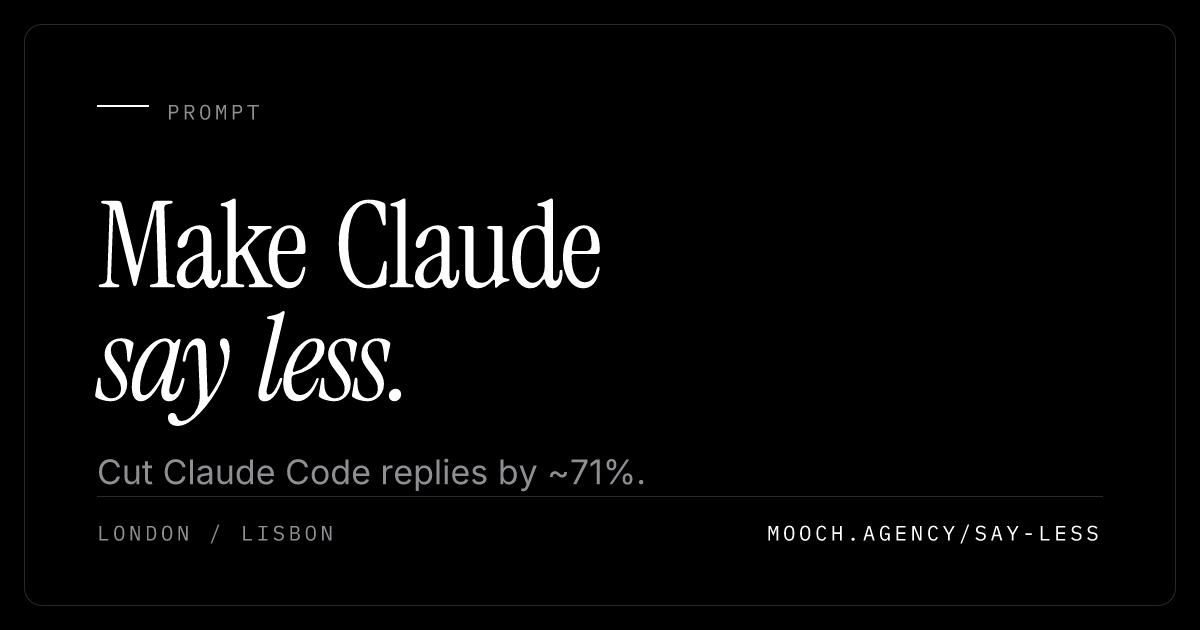
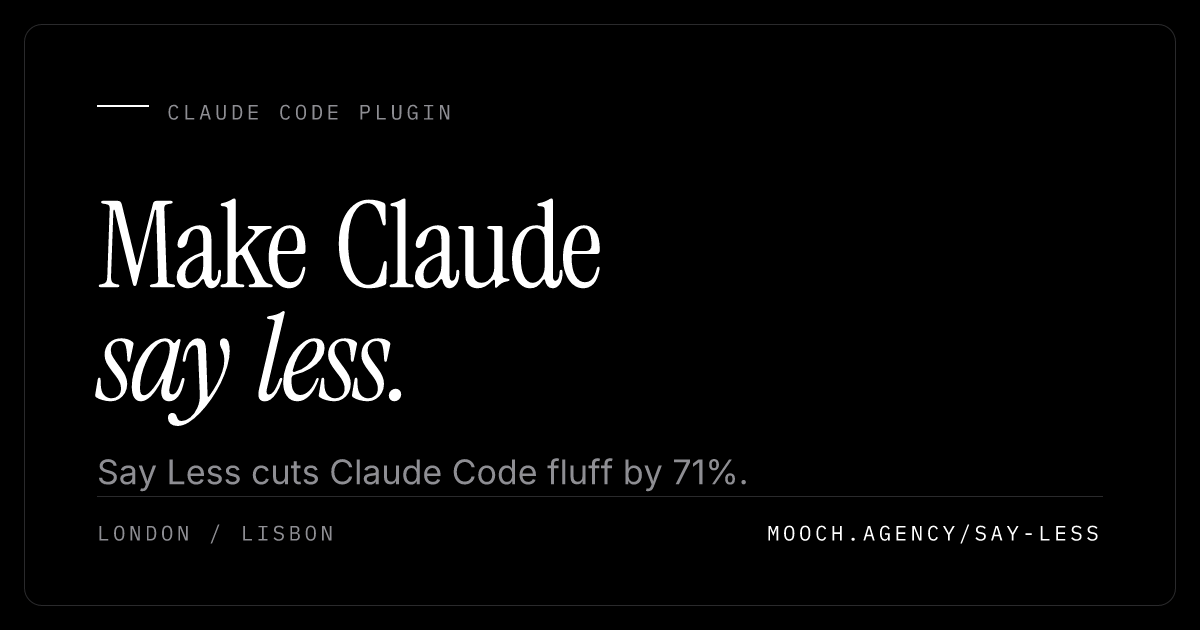
Give every page its own share card, and get check-site green (#36)
* Give every page its own share card, not the generic one

Only /say-less and /paulgraham pointed at their own OG image. Everything
else fell back to og-image.png, so a shared case-study or prompt link
showed the brand card with a mismatched title. The cards existed in
og-explorations/ but were never wired up.

- Generate cards for the three pages that had none: /deslop,
  /soundlikeme, /ready
- Ship all 13 as og-<slug>.png and point each page's og:image and
  twitter:image at its own, with width, height and alt
- Refresh og-image.png from the current home card, now the brand
  fallback only
- Templates and CLAUDE.md carry the per-page card step

Claude-Session: https://claude.ai/code/session_01Q41ufbfDNm2iJ9b94AGpeU

* Get check-site green: rescope the page set, tokenise /say-less

The five standing failures were two stale scoping calls plus thin copy.

- /say-less is public and sitemapped now, so it is a shipped page, not an
  exclusion. /og-explorations takes its place on the list: noindex share-card
  review page, same as the portfolio labs
- Blank CSS comments before scanning for colour literals. A contrast table in
  a comment documents a colour, it doesn't ship one
- Promote the /say-less literals to tokens: --claude and its ring pair, --scrim,
  --shadow-modal, --focus-ring-dark
- Lengthen the /say-less and /deslop meta descriptions, drop an em dash

Claude-Session: https://claude.ai/code/session_01Q41ufbfDNm2iJ9b94AGpeU

---------

diff --git a/say-less.html b/say-less.html
@@ -7,18 +7,18 @@
 <link rel="icon" type="image/svg+xml" href="/favicon.svg">
 <link rel="icon" type="image/x-icon" href="/favicon.ico">
 <link rel="apple-touch-icon" sizes="180x180" href="/apple-touch-icon-180.png">
-<meta name="description" content="Cut Claude Code fluff by ~71%."><link rel="canonical" href="https://mooch.agency/say-less">
+<meta name="description" content="A Claude Code plugin that cuts fluff by 71%. Try it live on the page, then install it in one line."><link rel="canonical" href="https://mooch.agency/say-less">
 <meta property="og:type" content="website">
 <meta property="og:url" content="https://mooch.agency/say-less">
 <meta property="og:title" content="Say Less: try it live, cuts fluff 71% | Mooch">
-<meta property="og:description" content="Cut Claude Code fluff by ~71%.">
+<meta property="og:description" content="A Claude Code plugin that cuts fluff by 71%. Try it live on the page, then install it in one line.">
 <meta property="og:image" content="https://mooch.agency/og-say-less.png">
 <meta property="og:image:width" content="1200">
 <meta property="og:image:height" content="630">
 <meta property="og:image:alt" content="Make Claude say less. Cut Claude Code fluff by ~71%.">
 <meta name="twitter:card" content="summary_large_image">
 <meta name="twitter:title" content="Say Less: try it live, cuts fluff 71% | Mooch">
-<meta name="twitter:description" content="Cut Claude Code fluff by ~71%.">
+<meta name="twitter:description" content="A Claude Code plugin that cuts fluff by 71%. Try it live on the page, then install it in one line.">
 <meta name="twitter:image" content="https://mooch.agency/og-say-less.png">
 <meta name="twitter:image:alt" content="Make Claude say less. Cut Claude Code fluff by ~71%.">
 <link rel="preconnect" href="https://fonts.googleapis.com">
@@ -251,7 +251,7 @@
   }
   .field:focus-within {
     border-color: var(--paper);
-    box-shadow: 0 0 0 3px rgba(255,255,255,0.08);
+    box-shadow: var(--focus-ring-dark);
   }
   /* Wraps the accent bar and textarea only (not the go button, which is
      already self-rounded). overflow: hidden here is scoped to just this
@@ -342,7 +342,7 @@
     margin-top: 10px; min-height: 14px; font-variant-numeric: tabular-nums;
   }
   .state-line.fail { color: var(--error); }
-  .state-line.running { color: #d97757; }
+  .state-line.running { color: var(--claude); }
   @media (prefers-reduced-motion: no-preference) {
     .state-line { transition: color var(--t-deliver) var(--ease-deliver); }
   }
@@ -523,12 +523,12 @@
     padding: var(--pad-x);
   }
   .intercept.open { display: flex; }
-  .intercept-scrim { position: absolute; inset: 0; background: rgba(0,0,0,0.75); }
+  .intercept-scrim { position: absolute; inset: 0; background: var(--scrim); }
   .intercept-card {
     position: relative; width: min(440px, 100%);
     background: var(--surface); border: 1px solid var(--hairline-focus);
     border-radius: 16px; padding: clamp(22px, 3vw, 30px);
-    box-shadow: 0 24px 60px rgba(0,0,0,0.6);
+    box-shadow: var(--shadow-modal);
   }
   @media (prefers-reduced-motion: no-preference) {
     .intercept.open .intercept-card { animation: interceptIn 0.4s var(--ease-decide); }
@@ -586,12 +586,12 @@
      second install surface. */
   .install-hi { animation: installHi 2.4s var(--ease-decide); }
   @keyframes installHi {
-    0%   { box-shadow: inset 0 0 0 1px rgba(217,119,87,0.9); }
-    70%  { box-shadow: inset 0 0 0 1px rgba(217,119,87,0.9); }
-    100% { box-shadow: inset 0 0 0 1px rgba(217,119,87,0); }
+    0%   { box-shadow: inset 0 0 0 1px var(--claude-ring); }
+    70%  { box-shadow: inset 0 0 0 1px var(--claude-ring); }
+    100% { box-shadow: inset 0 0 0 1px var(--claude-ring-out); }
   }
   @media (prefers-reduced-motion: reduce) {
-    .install-hi { animation: none; box-shadow: inset 0 0 0 1px rgba(217,119,87,0.9); }
+    .install-hi { animation: none; box-shadow: inset 0 0 0 1px var(--claude-ring); }
   }
 
   /* ── Colophon ──────────────────────────────────────────────────────────
@@ -755,7 +755,7 @@
         <pre id="install-commands">/plugin marketplace add mooch-agency/say-less
 /plugin install say-less@say-less</pre>
       </div>
-      <p>On the desktop app or the web, <code>/plugin</code> isn't available as a typed command &mdash; use the prompt above, which handles every surface, or read the <a href="https://github.com/mooch-agency/say-less/blob/master/INSTALL.md">per-surface install guide</a>.</p>
+      <p>On the desktop app or the web, <code>/plugin</code> isn't available as a typed command. Use the prompt above, which handles every surface, or read the <a href="https://github.com/mooch-agency/say-less/blob/master/INSTALL.md">per-surface install guide</a>.</p>
       <p class="feedback-line">Something off, or working well? <a id="feedbackLink" href="mailto:hey@mooch.agency?subject=Say%20Less%20beta%20feedback">hey@mooch.agency</a>.</p>
       </div>
     </div>

diff --git a/og-explorations.html b/og-explorations.html
@@ -116,12 +116,24 @@
   <div class="group-lead">Category word as the eyebrow (Prompt, Plaything), full path as the domain, London / Lisbon bottom-left like every card. Say Less runs black to match its landing page.</div>
   <div class="grid">
     <figure>
-      <img src="og-explorations/say-less.png" alt="Make Claude say less. Cut Claude Code replies by ~71%." width="1200" height="630" loading="lazy" decoding="async">
+      <img src="og-explorations/say-less.png" alt="Make Claude say less. Say Less cuts Claude Code fluff by 71%." width="1200" height="630" loading="lazy" decoding="async">
       <figcaption><a href="say-less.html">say-less.html</a> <span class="note">Shipped</span></figcaption>
     </figure>
     <figure>
       <img src="og-explorations/paulgraham.png" alt="Write like Paul Graham. Write articles as clearly as Paul Graham." width="1200" height="630" loading="lazy" decoding="async">
       <figcaption><a href="paulgraham.html">paulgraham.html</a> <span class="note">Replaces the hand-made card</span></figcaption>
+    </figure>
+    <figure>
+      <img src="og-explorations/deslop.png" alt="/deslop. Remove the red flags of AI writing." width="1200" height="630" loading="lazy" decoding="async">
+      <figcaption><a href="prompts/deslop.html">prompts/deslop.html</a> <span class="note">Prompt tint</span></figcaption>
+    </figure>
+    <figure>
+      <img src="og-explorations/soundlikeme.png" alt="/soundlikeme. Make AI write in your voice." width="1200" height="630" loading="lazy" decoding="async">
+      <figcaption><a href="prompts/soundlikeme.html">prompts/soundlikeme.html</a> <span class="note">Prompt tint</span></figcaption>
+    </figure>
+    <figure>
+      <img src="og-explorations/ready.png" alt="Ready to automate, or just keen? 6 questions. A readiness score and 3 next steps." width="1200" height="630" loading="lazy" decoding="async">
+      <figcaption><a href="ready.html">ready.html</a> <span class="note">Self-audit</span></figcaption>
     </figure>
   </div>
 </div>
@@ -129,7 +141,7 @@
 <div class="group">
   <div class="group-num"><strong>03</strong> Selected work <span class="rule"></span></div>
   <div class="group-title">Case <em>studies</em>.</div>
-  <div class="group-lead">Client name as the display, the work in one line, the discipline bottom-left. Footers stop at <code>mooch.agency</code>: the deep path crowded the rule and nobody types a case-study URL. All seven currently share the generic card.</div>
+  <div class="group-lead">Client name as the display, the work in one line, the discipline bottom-left. Footers stop at <code>mooch.agency</code>: the deep path crowded the rule and nobody types a case-study URL. All seven now ship their own card.</div>
   <div class="grid">
     <figure>
       <img src="og-explorations/gov-uk.png" alt="GOV.UK. Accessibility audits and service design for services millions rely on." width="1200" height="630" loading="lazy" decoding="async">
@@ -169,7 +181,7 @@
   <div class="recipe">npm run hero -- \
   --eyebrow "Prompt" \
   --title "Make Claude *say less.*" \
-  --subtitle "Cut Claude Code replies by ~71%." \
+  --subtitle "Say Less cuts Claude Code fluff by 71%." \
   --format og --frame --dark --no-watermark \
   --meta "London / Lisbon" \
   --domain "mooch.agency/say-less" \

diff --git a/prompts/deslop.html b/prompts/deslop.html
@@ -7,17 +7,21 @@
 <link rel="icon" type="image/svg+xml" href="/favicon.svg">
 <link rel="icon" type="image/x-icon" href="/favicon.ico">
 <link rel="apple-touch-icon" sizes="180x180" href="/apple-touch-icon-180.png">
-<meta name="description" content="A prompt to remove the red flags of AI writing. Free from Mooch.">
+<meta name="description" content="A free prompt that strips the red flags of AI writing: hedges, filler and throat clearing. Works with Claude, ChatGPT and Gemini.">
 <meta property="og:type" content="article">
 <meta property="og:url" content="https://mooch.agency/prompts/deslop">
 <link rel="canonical" href="https://mooch.agency/prompts/deslop">
 <meta property="og:title" content="/deslop - Prompt - Mooch">
-<meta property="og:description" content="A prompt to remove the red flags of AI writing. Free from Mooch.">
-<meta property="og:image" content="https://mooch.agency/og-image.png">
+<meta property="og:description" content="A free prompt that strips the red flags of AI writing: hedges, filler and throat clearing. Works with Claude, ChatGPT and Gemini.">
+<meta property="og:image" content="https://mooch.agency/og-deslop.png">
+<meta property="og:image:width" content="1200">
+<meta property="og:image:height" content="630">
+<meta property="og:image:alt" content="/deslop. Remove the red flags of AI writing.">
 <meta name="twitter:card" content="summary_large_image">
 <meta name="twitter:title" content="/deslop - Prompt - Mooch">
-<meta name="twitter:description" content="A prompt to remove the red flags of AI writing. Free from Mooch.">
-<meta name="twitter:image" content="https://mooch.agency/og-image.png">
+<meta name="twitter:description" content="A free prompt that strips the red flags of AI writing: hedges, filler and throat clearing. Works with Claude, ChatGPT and Gemini.">
+<meta name="twitter:image" content="https://mooch.agency/og-deslop.png">
+<meta name="twitter:image:alt" content="/deslop. Remove the red flags of AI writing.">
 <link rel="preconnect" href="https://fonts.googleapis.com">
 <link rel="preconnect" href="https://fonts.gstatic.com" crossorigin>
 <link href="https://fonts.googleapis.com/css2?family=Instrument+Serif:ital@0;1&display=swap" rel="stylesheet">

diff --git a/lisbon-restaurant-group.html b/lisbon-restaurant-group.html
@@ -13,11 +13,15 @@
 <link rel="canonical" href="https://mooch.agency/lisbon-restaurant-group">
 <meta property="og:title" content="Lisbon Restaurant Group: AI review automation | Mooch">
 <meta property="og:description" content="How Mooch built AI-powered review automation for a Lisbon restaurant group, turning Google reviews into actionable insights and draft replies.">
-<meta property="og:image" content="https://mooch.agency/og-image.png">
+<meta property="og:image" content="https://mooch.agency/og-lisbon-restaurant-group.png">
+<meta property="og:image:width" content="1200">
+<meta property="og:image:height" content="630">
+<meta property="og:image:alt" content="Lisbon Restaurant Group. AI review automation: Google reviews turned into drafted replies.">
 <meta name="twitter:card" content="summary_large_image">
 <meta name="twitter:title" content="Lisbon Restaurant Group: AI review automation | Mooch">
 <meta name="twitter:description" content="How Mooch built AI-powered review automation for a Lisbon restaurant group, turning Google reviews into actionable insights and draft replies.">
-<meta name="twitter:image" content="https://mooch.agency/og-image.png">
+<meta name="twitter:image" content="https://mooch.agency/og-lisbon-restaurant-group.png">
+<meta name="twitter:image:alt" content="Lisbon Restaurant Group. AI review automation: Google reviews turned into drafted replies.">
 <link rel="preconnect" href="https://fonts.googleapis.com">
 <link rel="preconnect" href="https://fonts.gstatic.com" crossorigin>
 <link href="https://fonts.googleapis.com/css2?family=Instrument+Serif:ital@0;1&display=swap" rel="stylesheet">

diff --git a/ethereum.html b/ethereum.html
@@ -13,11 +13,15 @@
 <link rel="canonical" href="https://mooch.agency/ethereum">
 <meta property="og:title" content="Ethereum Foundation: Rewriting ethereum.org in plain English | Mooch">
 <meta property="og:description" content="How Mooch rewrote the core informational layer of ethereum.org for the Ethereum Foundation: plain English without losing technical accuracy.">
-<meta property="og:image" content="https://mooch.agency/og-image.png">
+<meta property="og:image" content="https://mooch.agency/og-ethereum.png">
+<meta property="og:image:width" content="1200">
+<meta property="og:image:height" content="630">
+<meta property="og:image:alt" content="Ethereum Foundation. Rewriting ethereum.org in plain English, without losing technical accuracy.">
 <meta name="twitter:card" content="summary_large_image">
 <meta name="twitter:title" content="Ethereum Foundation: Rewriting ethereum.org in plain English | Mooch">
 <meta name="twitter:description" content="How Mooch rewrote the core informational layer of ethereum.org for the Ethereum Foundation: plain English without losing technical accuracy.">
-<meta name="twitter:image" content="https://mooch.agency/og-image.png">
+<meta name="twitter:image" content="https://mooch.agency/og-ethereum.png">
+<meta name="twitter:image:alt" content="Ethereum Foundation. Rewriting ethereum.org in plain English, without losing technical accuracy.">
 <link rel="preconnect" href="https://fonts.googleapis.com">
 <link rel="preconnect" href="https://fonts.gstatic.com" crossorigin>
 <link href="https://fonts.googleapis.com/css2?family=Instrument+Serif:ital@0;1&display=swap" rel="stylesheet">

diff --git a/british-airways.html b/british-airways.html
@@ -13,11 +13,15 @@
 <link rel="canonical" href="https://mooch.agency/british-airways">
 <meta property="og:title" content="British Airways: UX research for digital products | Mooch">
 <meta property="og:description" content="How Mooch ran user research across British Airways' digital products, identifying friction points and delivering actionable design recommendations.">
-<meta property="og:image" content="https://mooch.agency/og-image.png">
+<meta property="og:image" content="https://mooch.agency/og-british-airways.png">
+<meta property="og:image:width" content="1200">
+<meta property="og:image:height" content="630">
+<meta property="og:image:alt" content="British Airways. UX research across BA's digital products, from friction points to fixes.">
 <meta name="twitter:card" content="summary_large_image">
 <meta name="twitter:title" content="British Airways: UX research for digital products | Mooch">
 <meta name="twitter:description" content="How Mooch ran user research across British Airways' digital products, identifying friction points and delivering actionable design recommendations.">
-<meta name="twitter:image" content="https://mooch.agency/og-image.png">
+<meta name="twitter:image" content="https://mooch.agency/og-british-airways.png">
+<meta name="twitter:image:alt" content="British Airways. UX research across BA's digital products, from friction points to fixes.">
 <link rel="preconnect" href="https://fonts.googleapis.com">
 <link rel="preconnect" href="https://fonts.gstatic.com" crossorigin>
 <link href="https://fonts.googleapis.com/css2?family=Instrument+Serif:ital@0;1&display=swap" rel="stylesheet">

diff --git a/big-debate-club.html b/big-debate-club.html
@@ -13,11 +13,15 @@
 <link rel="canonical" href="https://mooch.agency/big-debate-club">
 <meta property="og:title" content="Big Debate Club: Brand and product for youth debate | Mooch">
 <meta property="og:description" content="How Mooch helped Big Debate Club build brand, product, and growth strategy for a debate platform connecting young people across the UK.">
-<meta property="og:image" content="https://mooch.agency/og-image.png">
+<meta property="og:image" content="https://mooch.agency/og-big-debate-club.png">
+<meta property="og:image:width" content="1200">
+<meta property="og:image:height" content="630">
+<meta property="og:image:alt" content="Big Debate Club. Brand, product and growth strategy for a youth debate platform.">
 <meta name="twitter:card" content="summary_large_image">
 <meta name="twitter:title" content="Big Debate Club: Brand and product for youth debate | Mooch">
 <meta name="twitter:description" content="How Mooch helped Big Debate Club build brand, product, and growth strategy for a debate platform connecting young people across the UK.">
-<meta name="twitter:image" content="https://mooch.agency/og-image.png">
+<meta name="twitter:image" content="https://mooch.agency/og-big-debate-club.png">
+<meta name="twitter:image:alt" content="Big Debate Club. Brand, product and growth strategy for a youth debate platform.">
 <link rel="preconnect" href="https://fonts.googleapis.com">
 <link rel="preconnect" href="https://fonts.gstatic.com" crossorigin>
 <link href="https://fonts.googleapis.com/css2?family=Instrument+Serif:ital@0;1&display=swap" rel="stylesheet">

diff --git a/gov-uk.html b/gov-uk.html
@@ -13,11 +13,15 @@
 <link rel="canonical" href="https://mooch.agency/gov-uk">
 <meta property="og:title" content="GOV.UK: Accessibility audits and service design | Mooch">
 <meta property="og:description" content="How Mooch ran accessibility audits, user testing sessions, and service design workshops to improve GOV.UK digital services for millions of users.">
-<meta property="og:image" content="https://mooch.agency/og-image.png">
+<meta property="og:image" content="https://mooch.agency/og-gov-uk.png">
+<meta property="og:image:width" content="1200">
+<meta property="og:image:height" content="630">
+<meta property="og:image:alt" content="GOV.UK. Accessibility audits and service design for services millions rely on.">
 <meta name="twitter:card" content="summary_large_image">
 <meta name="twitter:title" content="GOV.UK: Accessibility audits and service design | Mooch">
 <meta name="twitter:description" content="How Mooch ran accessibility audits, user testing sessions, and service design workshops to improve GOV.UK digital services for millions of users.">
-<meta name="twitter:image" content="https://mooch.agency/og-image.png">
+<meta name="twitter:image" content="https://mooch.agency/og-gov-uk.png">
+<meta name="twitter:image:alt" content="GOV.UK. Accessibility audits and service design for services millions rely on.">
 <link rel="preconnect" href="https://fonts.googleapis.com">
 <link rel="preconnect" href="https://fonts.gstatic.com" crossorigin>
 <link href="https://fonts.googleapis.com/css2?family=Instrument+Serif:ital@0;1&display=swap" rel="stylesheet">

diff --git a/zksync.html b/zksync.html
@@ -13,11 +13,15 @@
 <link rel="canonical" href="https://mooch.agency/zksync">
 <meta property="og:title" content="zkSync: UX research for Ethereum Layer 2 scaling | Mooch">
 <meta property="og:description" content="How Mooch ran UX research for zkSync's Ethereum Layer 2 protocol, improving developer experience and bridging flows for the scaling network.">
-<meta property="og:image" content="https://mooch.agency/og-image.png">
+<meta property="og:image" content="https://mooch.agency/og-zksync.png">
+<meta property="og:image:width" content="1200">
+<meta property="og:image:height" content="630">
+<meta property="og:image:alt" content="zkSync. UX research for an Ethereum Layer 2: developer experience and bridging.">
 <meta name="twitter:card" content="summary_large_image">
 <meta name="twitter:title" content="zkSync: UX research for Ethereum Layer 2 scaling | Mooch">
 <meta name="twitter:description" content="How Mooch ran UX research for zkSync's Ethereum Layer 2 protocol, improving developer experience and bridging flows for the scaling network.">
-<meta name="twitter:image" content="https://mooch.agency/og-image.png">
+<meta name="twitter:image" content="https://mooch.agency/og-zksync.png">
+<meta name="twitter:image:alt" content="zkSync. UX research for an Ethereum Layer 2: developer experience and bridging.">
 <link rel="preconnect" href="https://fonts.googleapis.com">
 <link rel="preconnect" href="https://fonts.gstatic.com" crossorigin>
 <link href="https://fonts.googleapis.com/css2?family=Instrument+Serif:ital@0;1&display=swap" rel="stylesheet">

diff --git a/octant.html b/octant.html
@@ -13,11 +13,15 @@
 <link rel="canonical" href="https://mooch.agency/octant">
 <meta property="og:title" content="Octant: UX research for public goods funding | Mooch">
 <meta property="og:description" content="How Mooch ran UX research and shaped product strategy for Octant's public goods funding platform, making on-chain governance more accessible.">
-<meta property="og:image" content="https://mooch.agency/og-image.png">
+<meta property="og:image" content="https://mooch.agency/og-octant.png">
+<meta property="og:image:width" content="1200">
+<meta property="og:image:height" content="630">
+<meta property="og:image:alt" content="Octant. UX research and product strategy for public goods funding.">
 <meta name="twitter:card" content="summary_large_image">
 <meta name="twitter:title" content="Octant: UX research for public goods funding | Mooch">
 <meta name="twitter:description" content="How Mooch ran UX research and shaped product strategy for Octant's public goods funding platform, making on-chain governance more accessible.">
-<meta name="twitter:image" content="https://mooch.agency/og-image.png">
+<meta name="twitter:image" content="https://mooch.agency/og-octant.png">
+<meta name="twitter:image:alt" content="Octant. UX research and product strategy for public goods funding.">
 <link rel="preconnect" href="https://fonts.googleapis.com">
 <link rel="preconnect" href="https://fonts.gstatic.com" crossorigin>
 <link href="https://fonts.googleapis.com/css2?family=Instrument+Serif:ital@0;1&display=swap" rel="stylesheet">

diff --git a/index.html b/index.html
@@ -13,11 +13,15 @@
 <link rel="canonical" href="https://mooch.agency">
 <meta property="og:title" content="Mooch. UX &amp; AI Automation.">
 <meta property="og:description" content="A UX and AI automation agency in London and Lisbon. We design products people want to use, and AI automations they can't live without.">
-<meta property="og:image" content="https://mooch.agency/og.jpg">
+<meta property="og:image" content="https://mooch.agency/og-image.png">
+<meta property="og:image:width" content="1200">
+<meta property="og:image:height" content="630">
+<meta property="og:image:alt" content="Mooch. We design products people want to use, and AI automations they can't live without.">
 <meta name="twitter:card" content="summary_large_image">
 <meta name="twitter:title" content="Mooch. UX &amp; AI Automation.">
 <meta name="twitter:description" content="A UX and AI automation agency in London and Lisbon. We design products people want to use, and AI automations they can't live without.">
-<meta name="twitter:image" content="https://mooch.agency/og.jpg">
+<meta name="twitter:image" content="https://mooch.agency/og-image.png">
+<meta name="twitter:image:alt" content="Mooch. We design products people want to use, and AI automations they can't live without.">
 <link rel="preconnect" href="https://fonts.googleapis.com">
 <link rel="preconnect" href="https://fonts.gstatic.com" crossorigin>
 <link href="https://fonts.googleapis.com/css2?family=Instrument+Serif:ital@0;1&display=swap" rel="stylesheet">

diff --git a/ready.html b/ready.html
@@ -13,11 +13,15 @@
 <link rel="canonical" href="https://mooch.agency/ready">
 <meta property="og:title" content="AI readiness self-audit &middot; Mooch">
 <meta property="og:description" content="Answer 6 questions, get a readiness score and 3 specific next steps. No email, no signup.">
-<meta property="og:image" content="https://mooch.agency/og.jpg">
+<meta property="og:image" content="https://mooch.agency/og-ready.png">
+<meta property="og:image:width" content="1200">
+<meta property="og:image:height" content="630">
+<meta property="og:image:alt" content="Ready to automate, or just keen? 6 questions. A readiness score and 3 next steps.">
 <meta name="twitter:card" content="summary_large_image">
 <meta name="twitter:title" content="AI readiness self-audit &middot; Mooch">
 <meta name="twitter:description" content="Answer 6 questions, get a readiness score and 3 specific next steps. No email, no signup.">
-<meta name="twitter:image" content="https://mooch.agency/og.jpg">
+<meta name="twitter:image" content="https://mooch.agency/og-ready.png">
+<meta name="twitter:image:alt" content="Ready to automate, or just keen? 6 questions. A readiness score and 3 next steps.">
 <link rel="preconnect" href="https://fonts.googleapis.com">
 <link rel="preconnect" href="https://fonts.gstatic.com" crossorigin>
 <link href="https://fonts.googleapis.com/css2?family=Instrument+Serif:ital@0;1&display=swap" rel="stylesheet">
